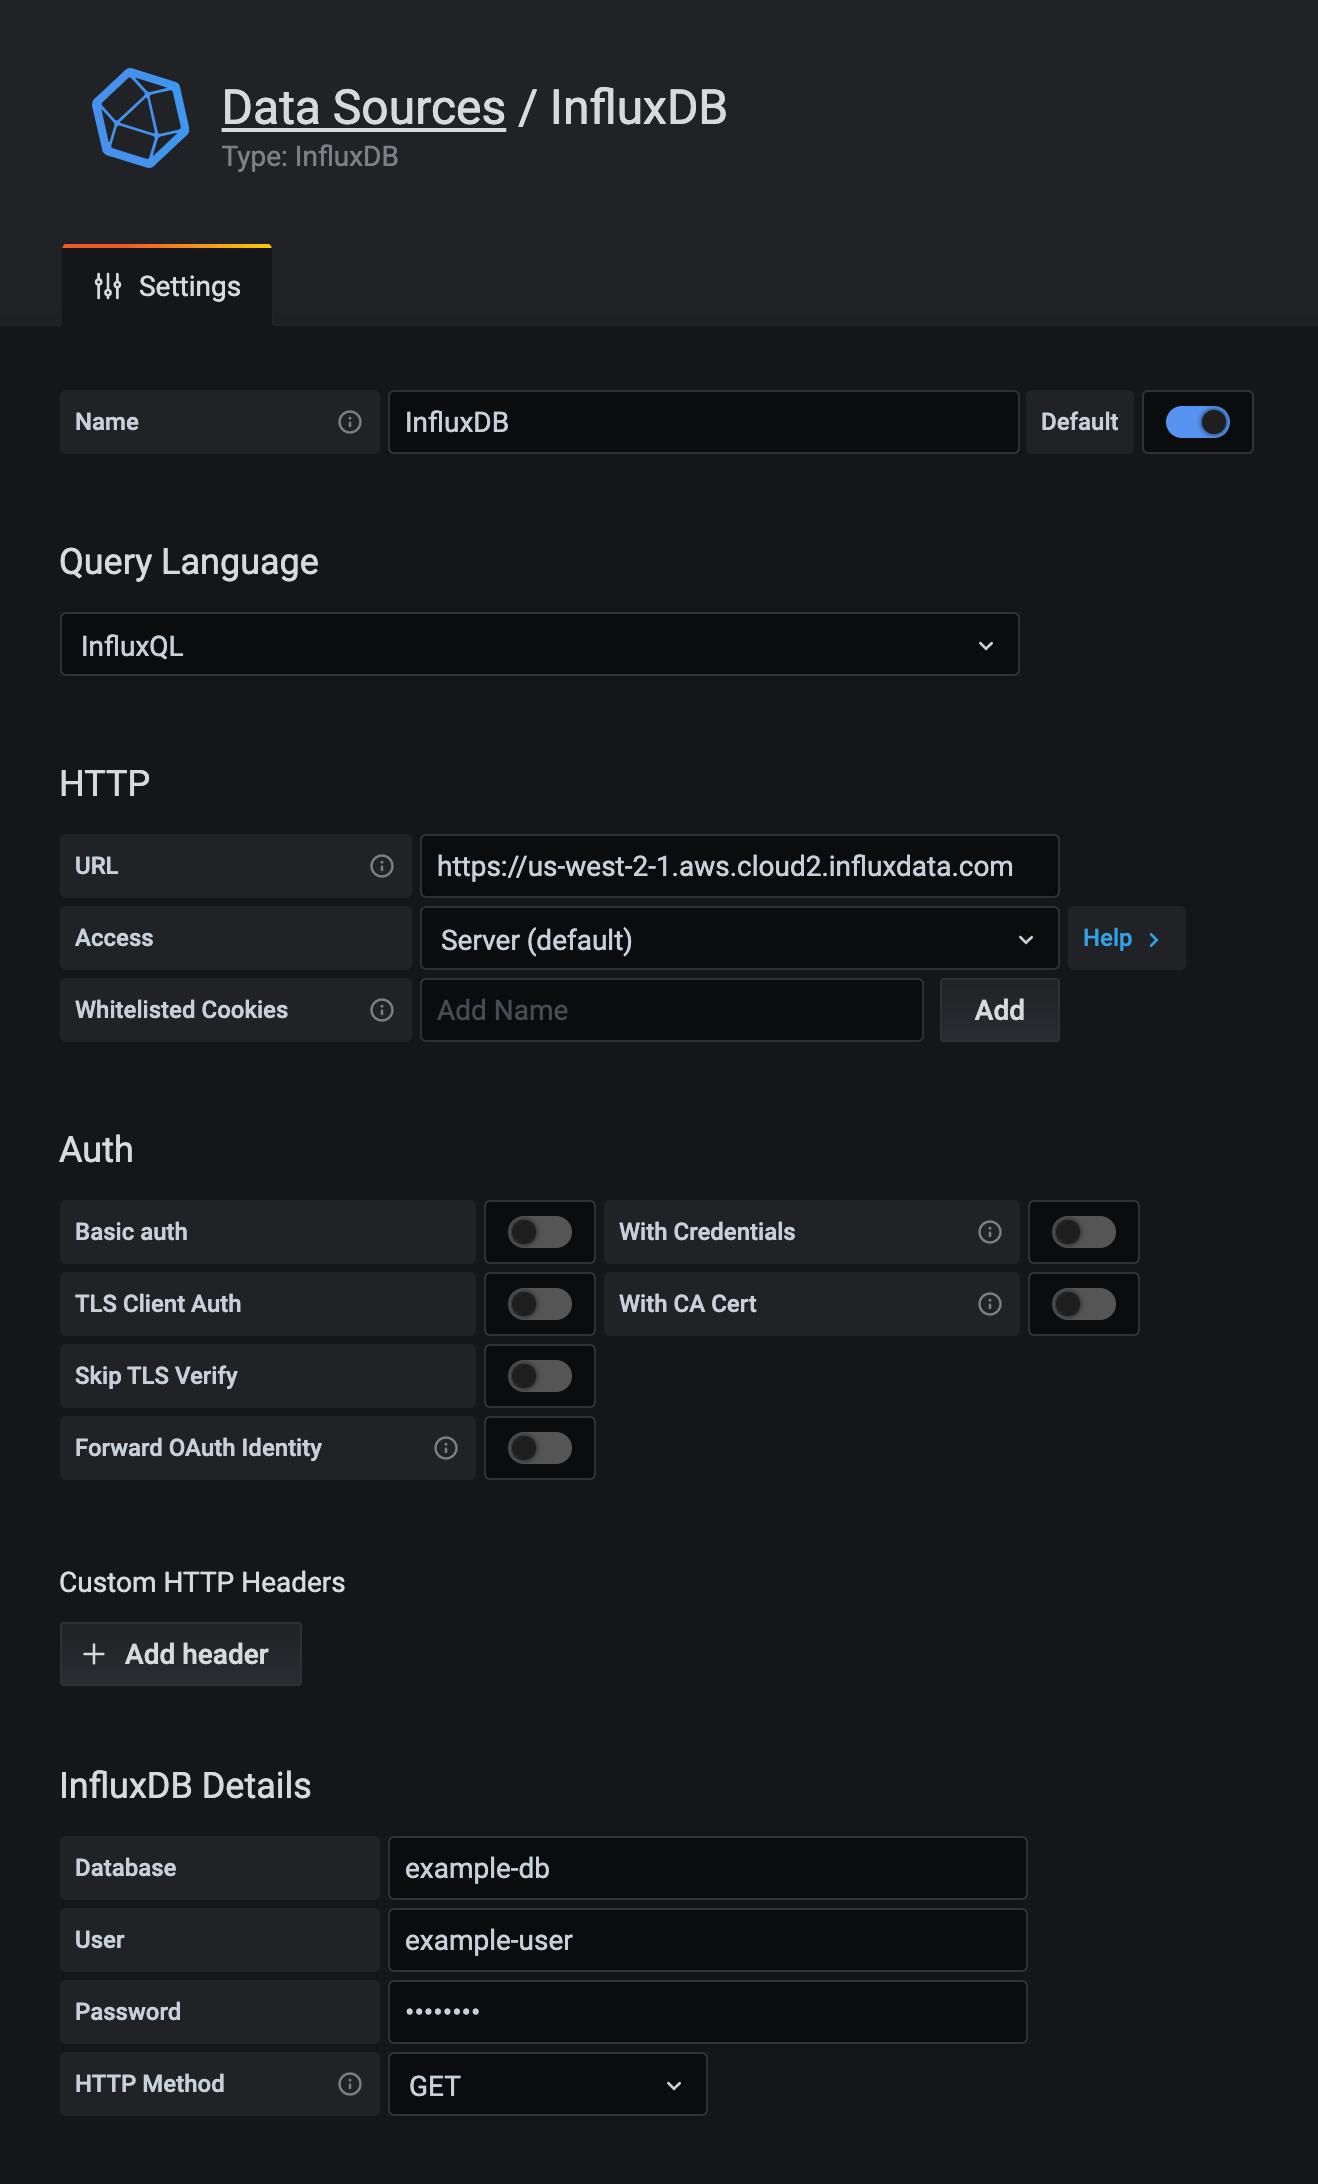
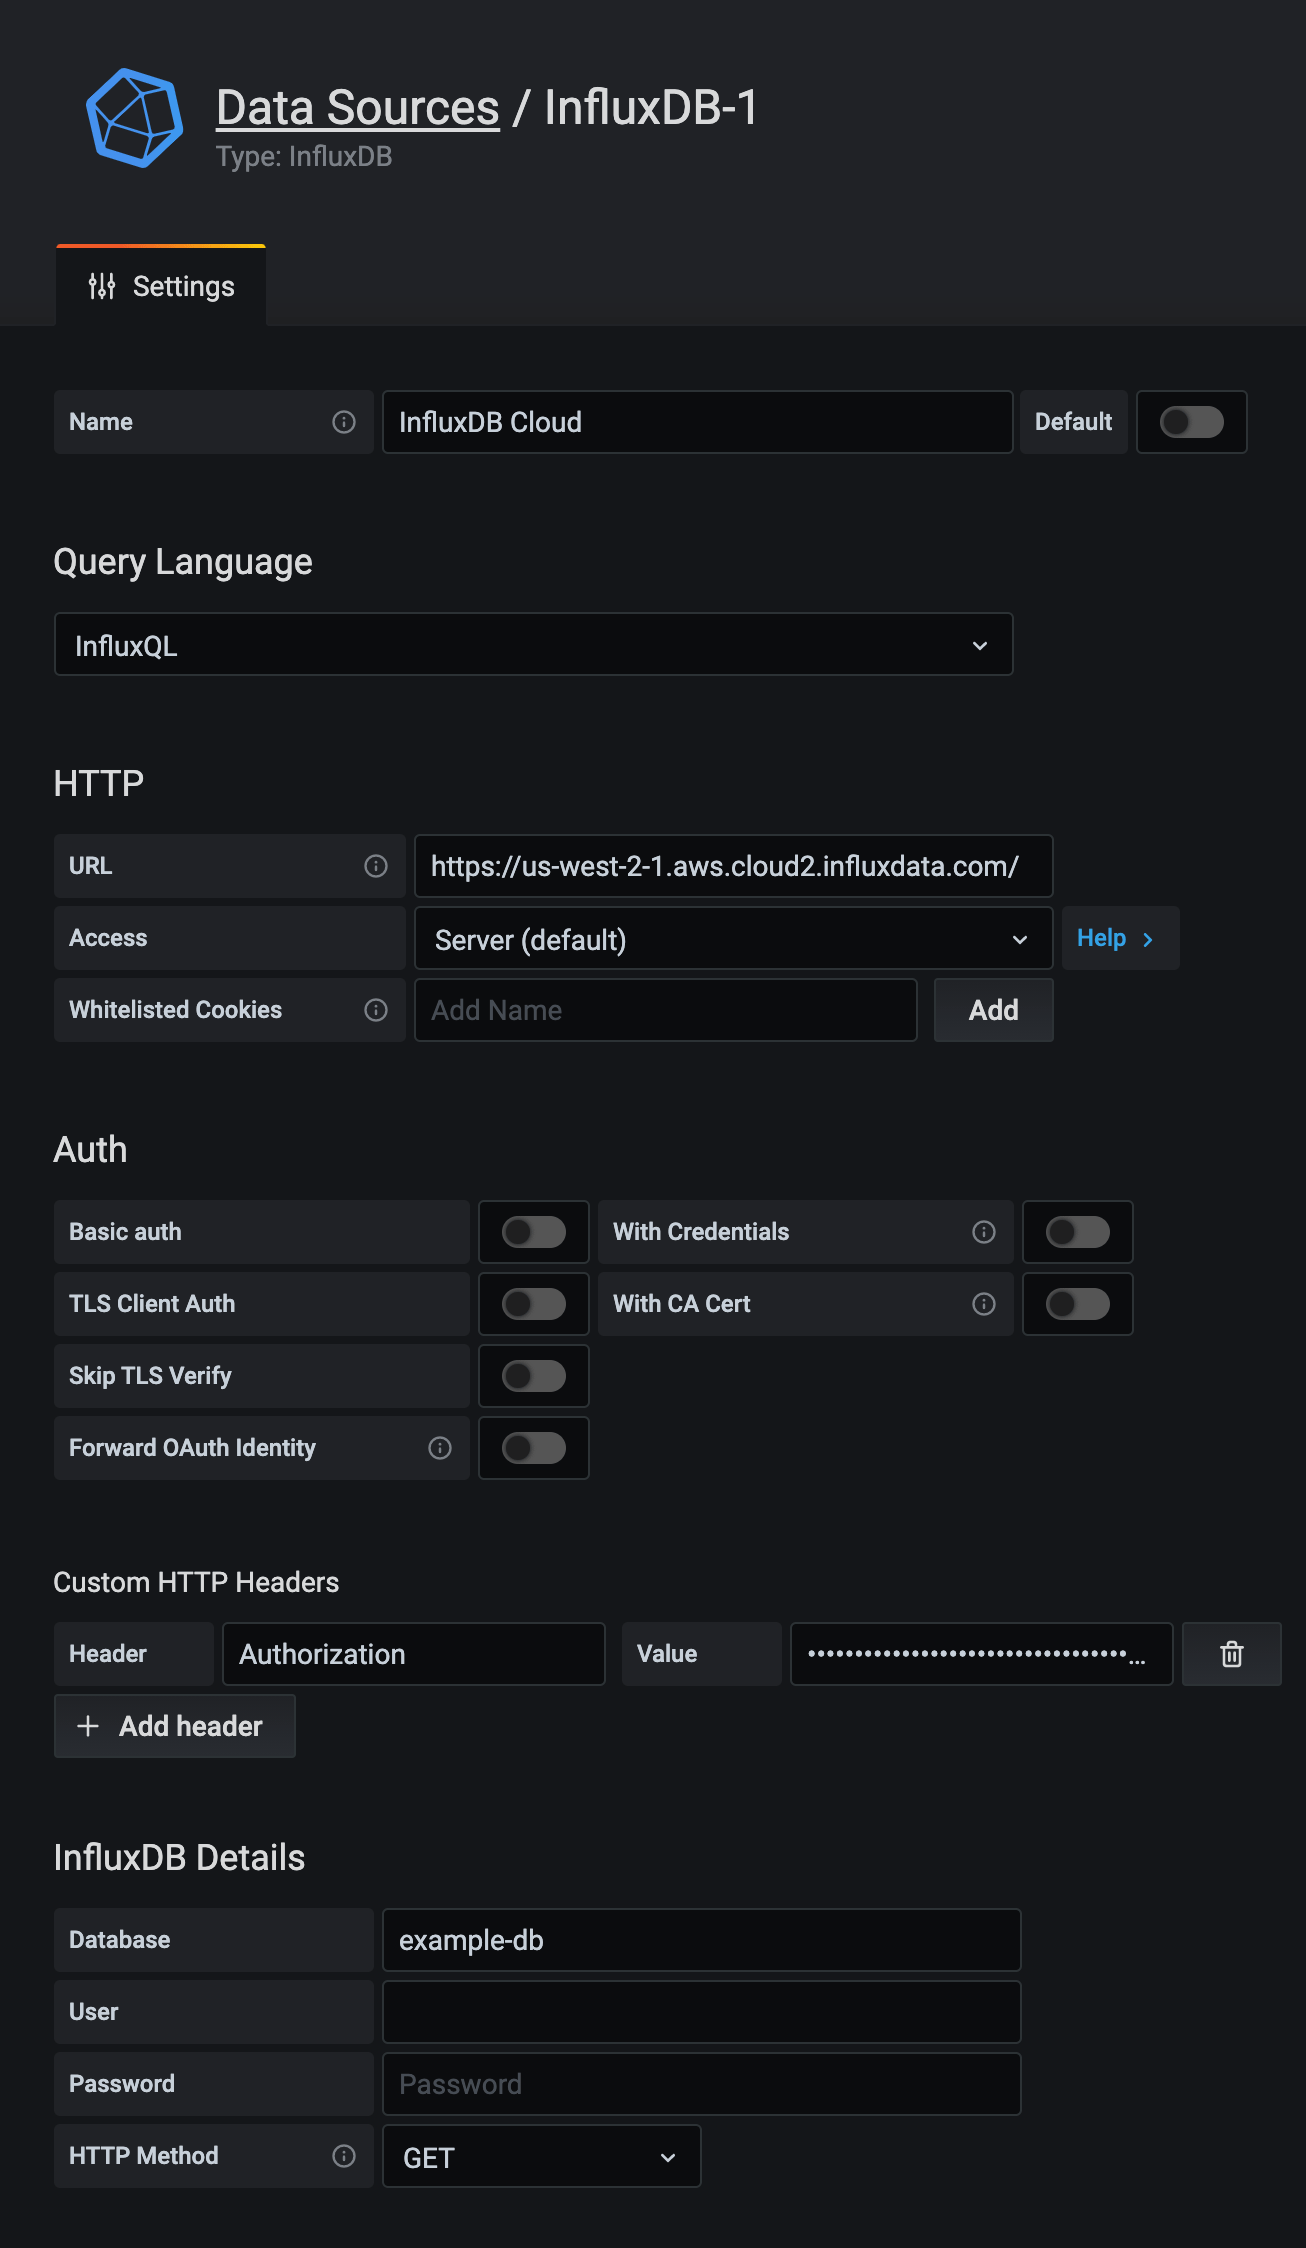
updated grafana cloud instructions to use token auth

diff --git a/content/influxdb/cloud/tools/grafana.md b/content/influxdb/cloud/tools/grafana.md
@@ -70,36 +70,12 @@ configure your InfluxDB connection:
 {{% tab-content %}}
 
 ## Configure Grafana to use InfluxQL
+To query InfluxDB Cloud from Grafana using InfluxQL:
 
-1. [Set up the InfluxDB 1.x compatibility API](#set-up-the-influxdb-1x-compatibility-api)
+1. [Create an InfluxDB DBRP mapping](#create-an-influxdb-dbrp-mapping)
 2. [Configure your InfluxDB connection](#configure-your-influxdb-connection)
 
-### Set up the InfluxDB 1.x compatibility API
-Grafana uses the [InfluxDB 1.x compatibility API](/influxdb/cloud/reference/api/influxdb-1x/)
-to query InfluxDB Cloud using InfluxQL.
-To successfully authenticate with and query the 1.x compatibility API:
-
-- [Create a InfluxDB v1 authorization](#create-an-influxdb-v1-authorization)
-- [Create a InfluxDB DBRP mapping](#create-an-influxdb-dbrp-mapping)
-
-#### Create an InfluxDB v1 authorization
-Use the [`influx v1 auth create` command](/influxdb/cloud/reference/cli/influx/v1/auth/create/)
-to grant read/write permissions to specific buckets. Provide the following:
-
-- [bucket IDs](/influxdb/cloud/organizations/buckets/view-buckets/) to grant read
-  or write permissions to
-- new username
-- new password _(when prompted)_
-
-<!--  -->
-```sh
-influx v1 auth create \
-  --read-bucket 00xX00o0X001 \
-  --write-bucket 00xX00o0X001 \
-  --username example-user
-```
-
-#### Create an InfluxDB DBRP mapping
+### Create an InfluxDB DBRP mapping
 When using InfluxQL to query InfluxDB Cloud, the query must specify a database and a retention policy.
 Use the [`influx v1 dbrp create` command](/influxdb/cloud/reference/cli/influx/v1/dbrp/create/)
 command to create a database/retention policy (DBRP) mapping that maps a database
@@ -141,12 +117,22 @@ With **InfluxQL** selected as the query language in your InfluxDB data source se
         ```
     - **Access**: Server (default)
 
+2. Under **Custom HTTP Headers**, select **Add Header**. Provide your InfluxDB Cloud authentication token:
+
+    - **Header**: Enter `Authorization`
+    - **Value**: Use the `Token` schema and provide your [InfluxDB authentication token](/influxdb/v2.0/security/tokens/).
+      For example:
+
+      ```
+      Token y0uR5uP3rSecr3tT0k3n
+      ```
+
 2. Under **InfluxDB Details**, do the following:
 
-    - **Database**: Enter the database name [mapped to your InfluxDB Cloud bucket](#create-an-influxdb-dbrp-mapping).
-    - **User**: Enter the username associated with your [InfluxDB 1.x compatibility authorization](#create-an-influxdb-v1-authorization).
-    - **Password**: Enter the password associated with your [InfluxDB 1.x compatibility authorization](#create-an-influxdb-v1-authorization).
-    - **HTTP Method**: Select **GET**.
+    - **Database**: Enter the database name [mapped to your InfluxDB Cloud bucket](#create-an-influxdb-dbrp-mapping)
+    - **User**: Leave empty
+    - **Password**: Leave empty
+    - **HTTP Method**: Select **GET**
 
     <!--  -->
     {{< img-hd src="/img/influxdb/cloud-tools-grafana-influxql.png" />}}

diff --git a/content/influxdb/v2.0/tools/grafana.md b/content/influxdb/v2.0/tools/grafana.md
@@ -132,10 +132,10 @@ With **InfluxQL** selected as the query language in your InfluxDB data source se
 
 2. Under **InfluxDB Details**, do the following:
 
-    - **Database**: Enter the database name [mapped to your InfluxDB 2.0 bucket](#create-an-influxdb-dbrp-mapping).
-    - **User**: Enter the username associated with your [InfluxDB 1.x compatibility authorization](#create-an-influxdb-v1-authorization).
-    - **Password**: Enter the password associated with your [InfluxDB 1.x compatibility authorization](#create-an-influxdb-v1-authorization).
-    - **HTTP Method**: Select **GET**.
+    - **Database**: Enter the database name [mapped to your InfluxDB 2.0 bucket](#create-an-influxdb-dbrp-mapping)
+    - **User**: Enter the username associated with your [InfluxDB 1.x compatibility authorization](#create-an-influxdb-v1-authorization)
+    - **Password**: Enter the password associated with your [InfluxDB 1.x compatibility authorization](#create-an-influxdb-v1-authorization)
+    - **HTTP Method**: Select **GET**
 
     <!--  -->
     {{< img-hd src="/img/influxdb/2-0-tools-grafana-influxql-oss.png" />}}
